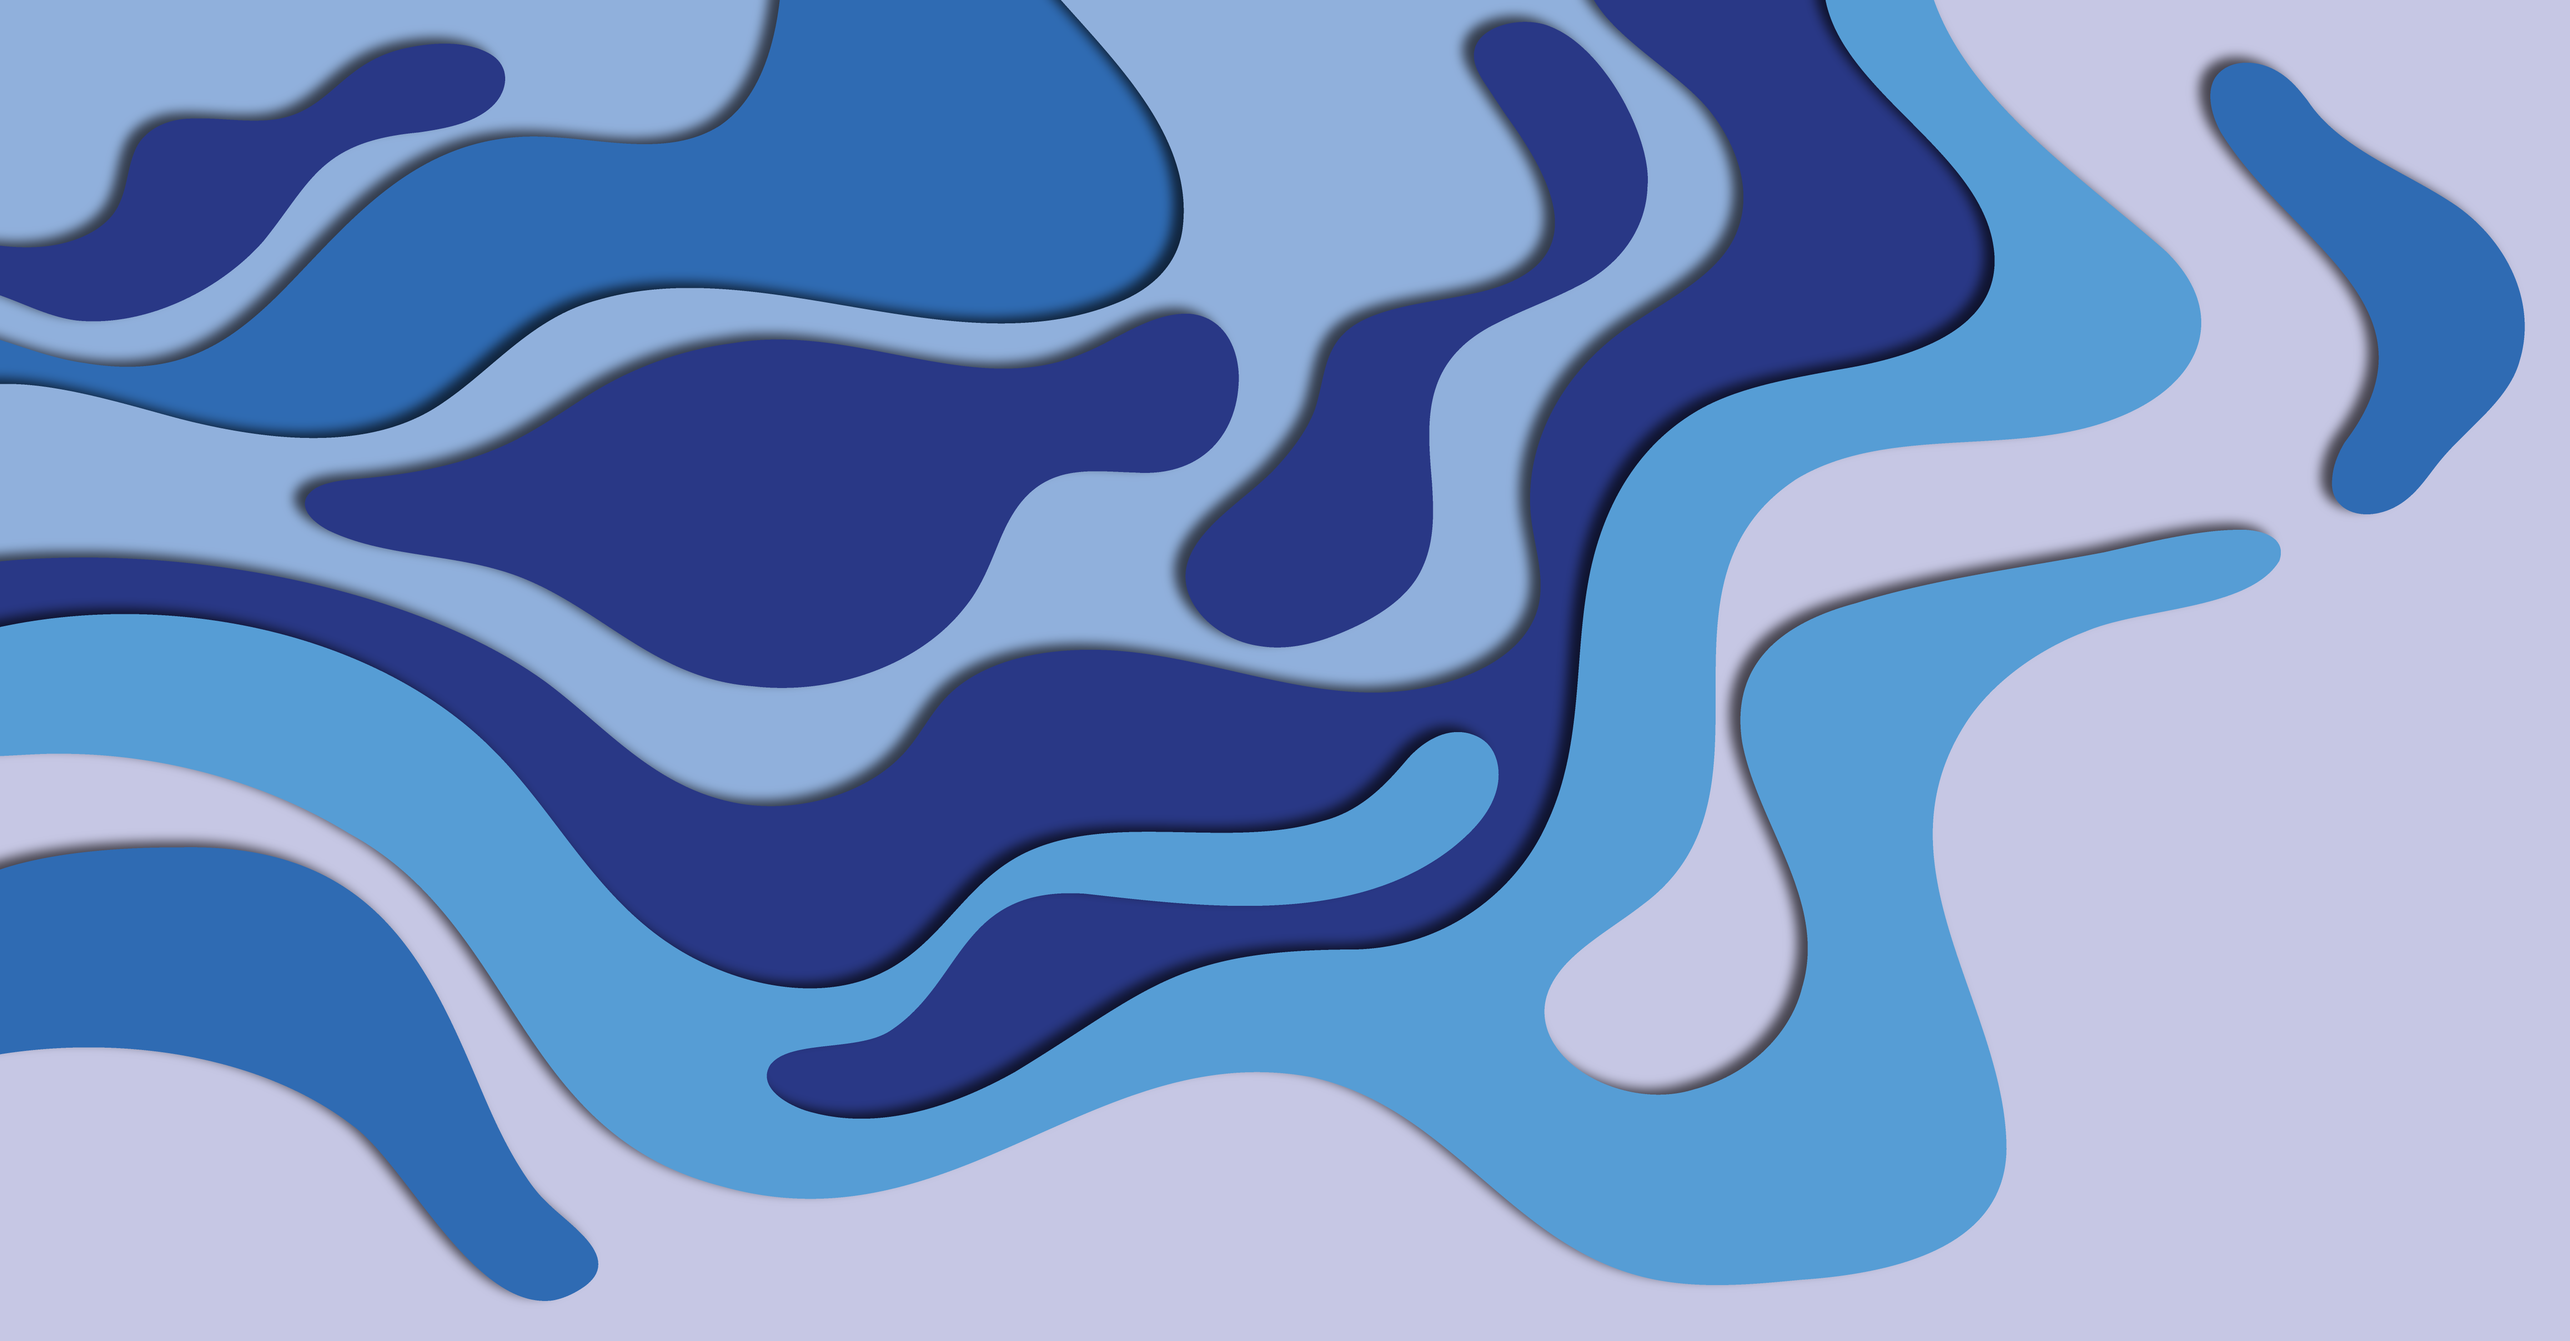
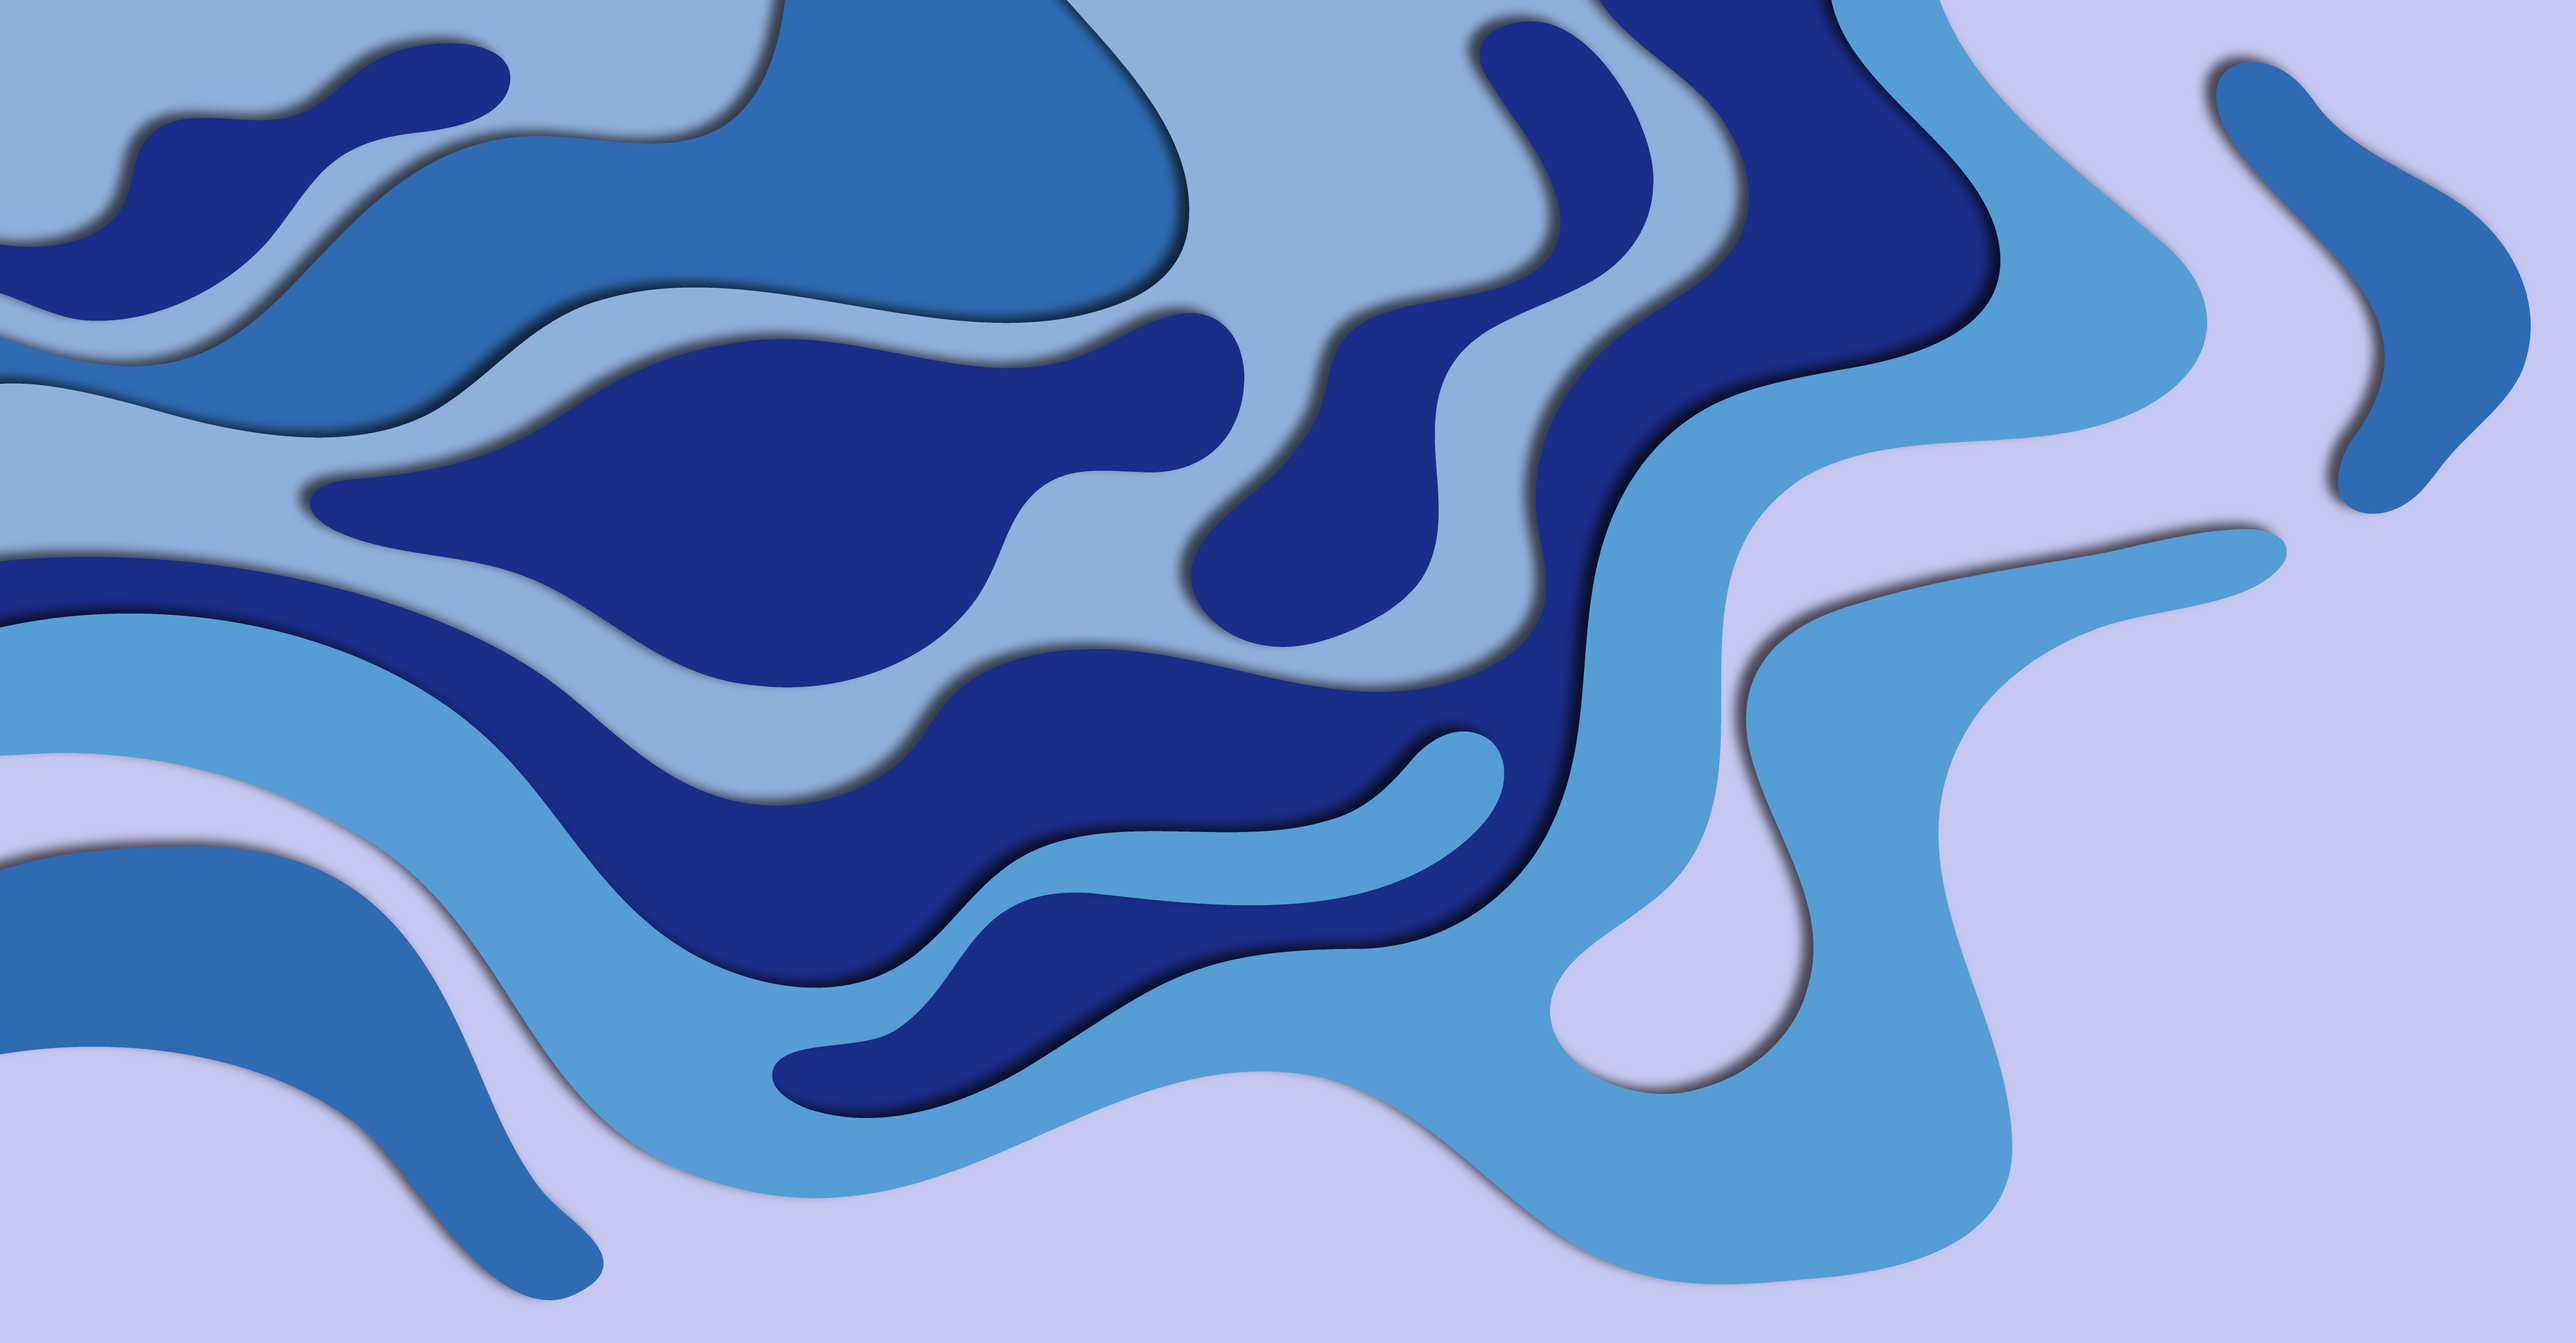
rettet lort på farver

diff --git a/src/views/HomeView.vue b/src/views/HomeView.vue
@@ -5,7 +5,7 @@
 <template>
   <main class="hero-wrapper">
     <img src="@/assets/hero.png" alt="Hero" class="hero-img " />
-    <div class="text-white text-center font-bold text-4xl w-7xl absolute top-1/2 left-1/2 transform -translate-x-1/2 -translate-y-1/2 flex ">
+    <div class="text-white text-center font-bold text-4xl w-7xl absolute top-1/2 left-1/2 transform -translate-x-1/2 -translate-y-1/2 flex">
       <h1>EMILIE STRYHN SIMONSEN | EMILIE STRYHN SIMONSEN | EMILIE STRYHN SIMONSEN |</h1>
     </div>
       <div class="text-white text-center font-bold text-4xl w-4xl absolute top-1/2 left-1/2 transform -translate-x-1/2 translate-y-15 flex">
@@ -19,8 +19,6 @@
 <style scoped>
 .hero-wrapper {
   width: 100vw;
-  margin: 0;
-  padding: 0;
   overflow: hidden;
   position: relative;
 }
@@ -29,8 +27,7 @@
   width: 100vw;
   height: auto;
   display: block;
-  margin: 0;
-  padding: 0;
+
 }
 </style>
 
